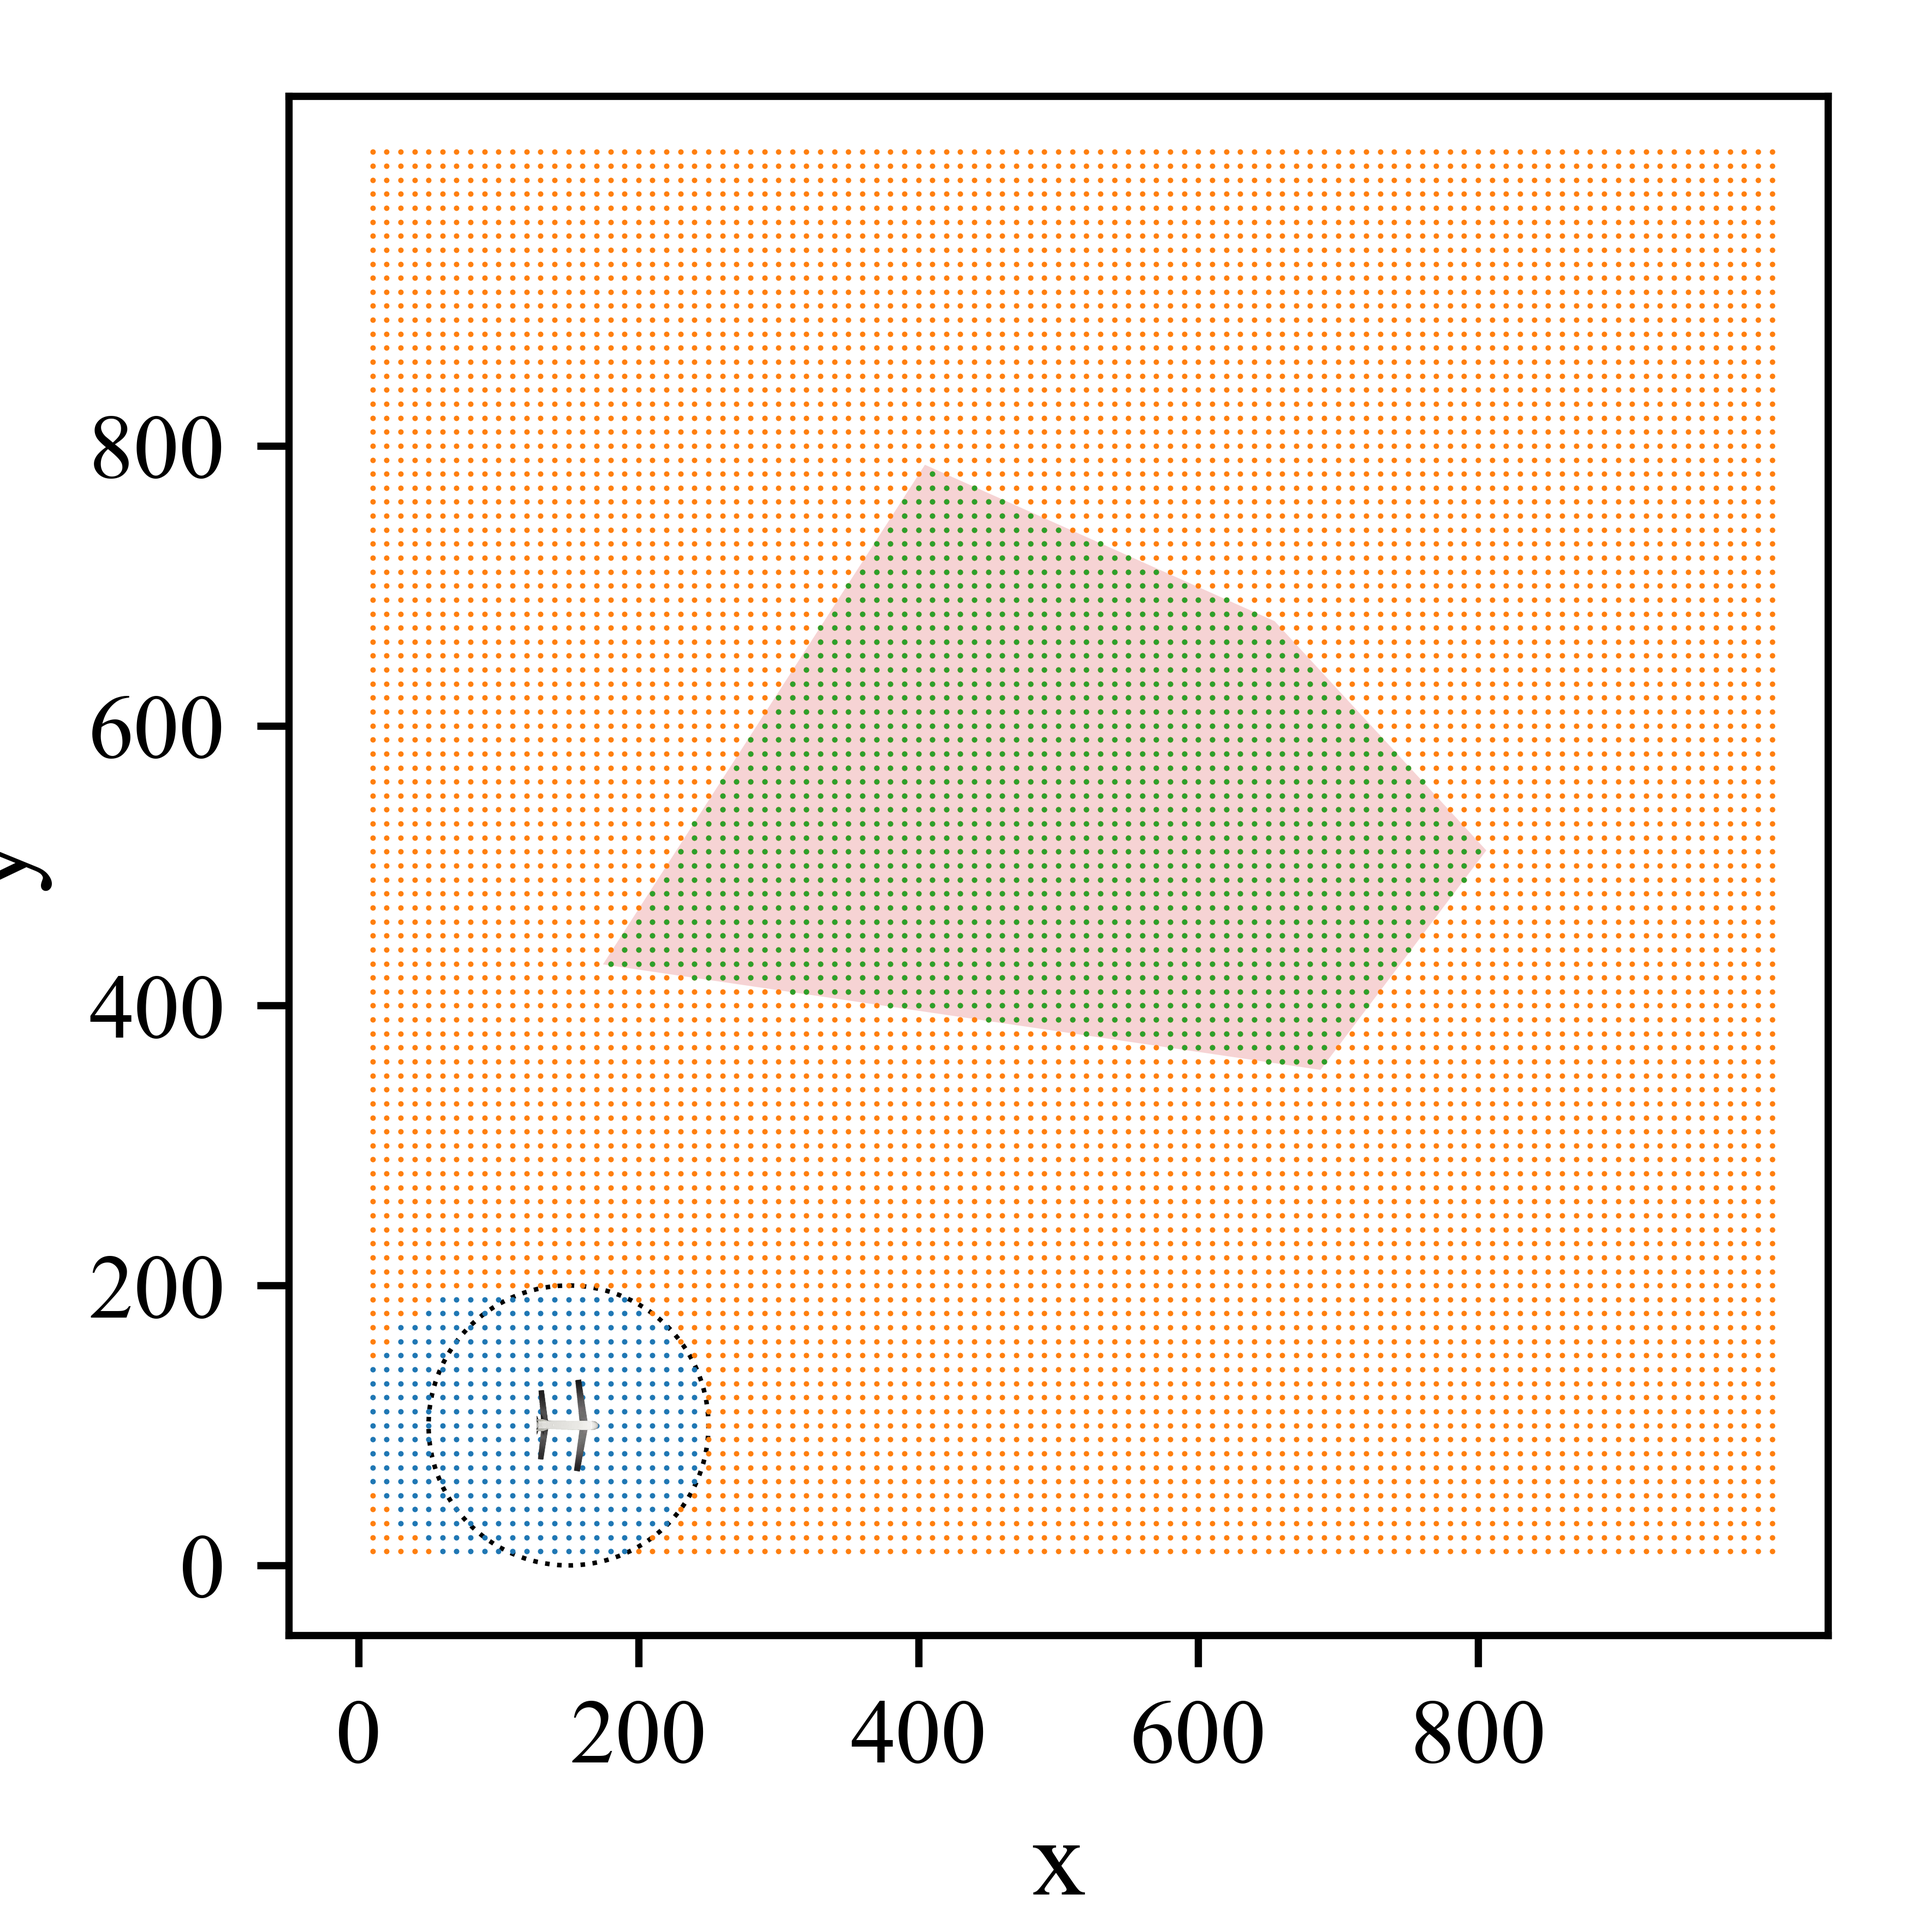
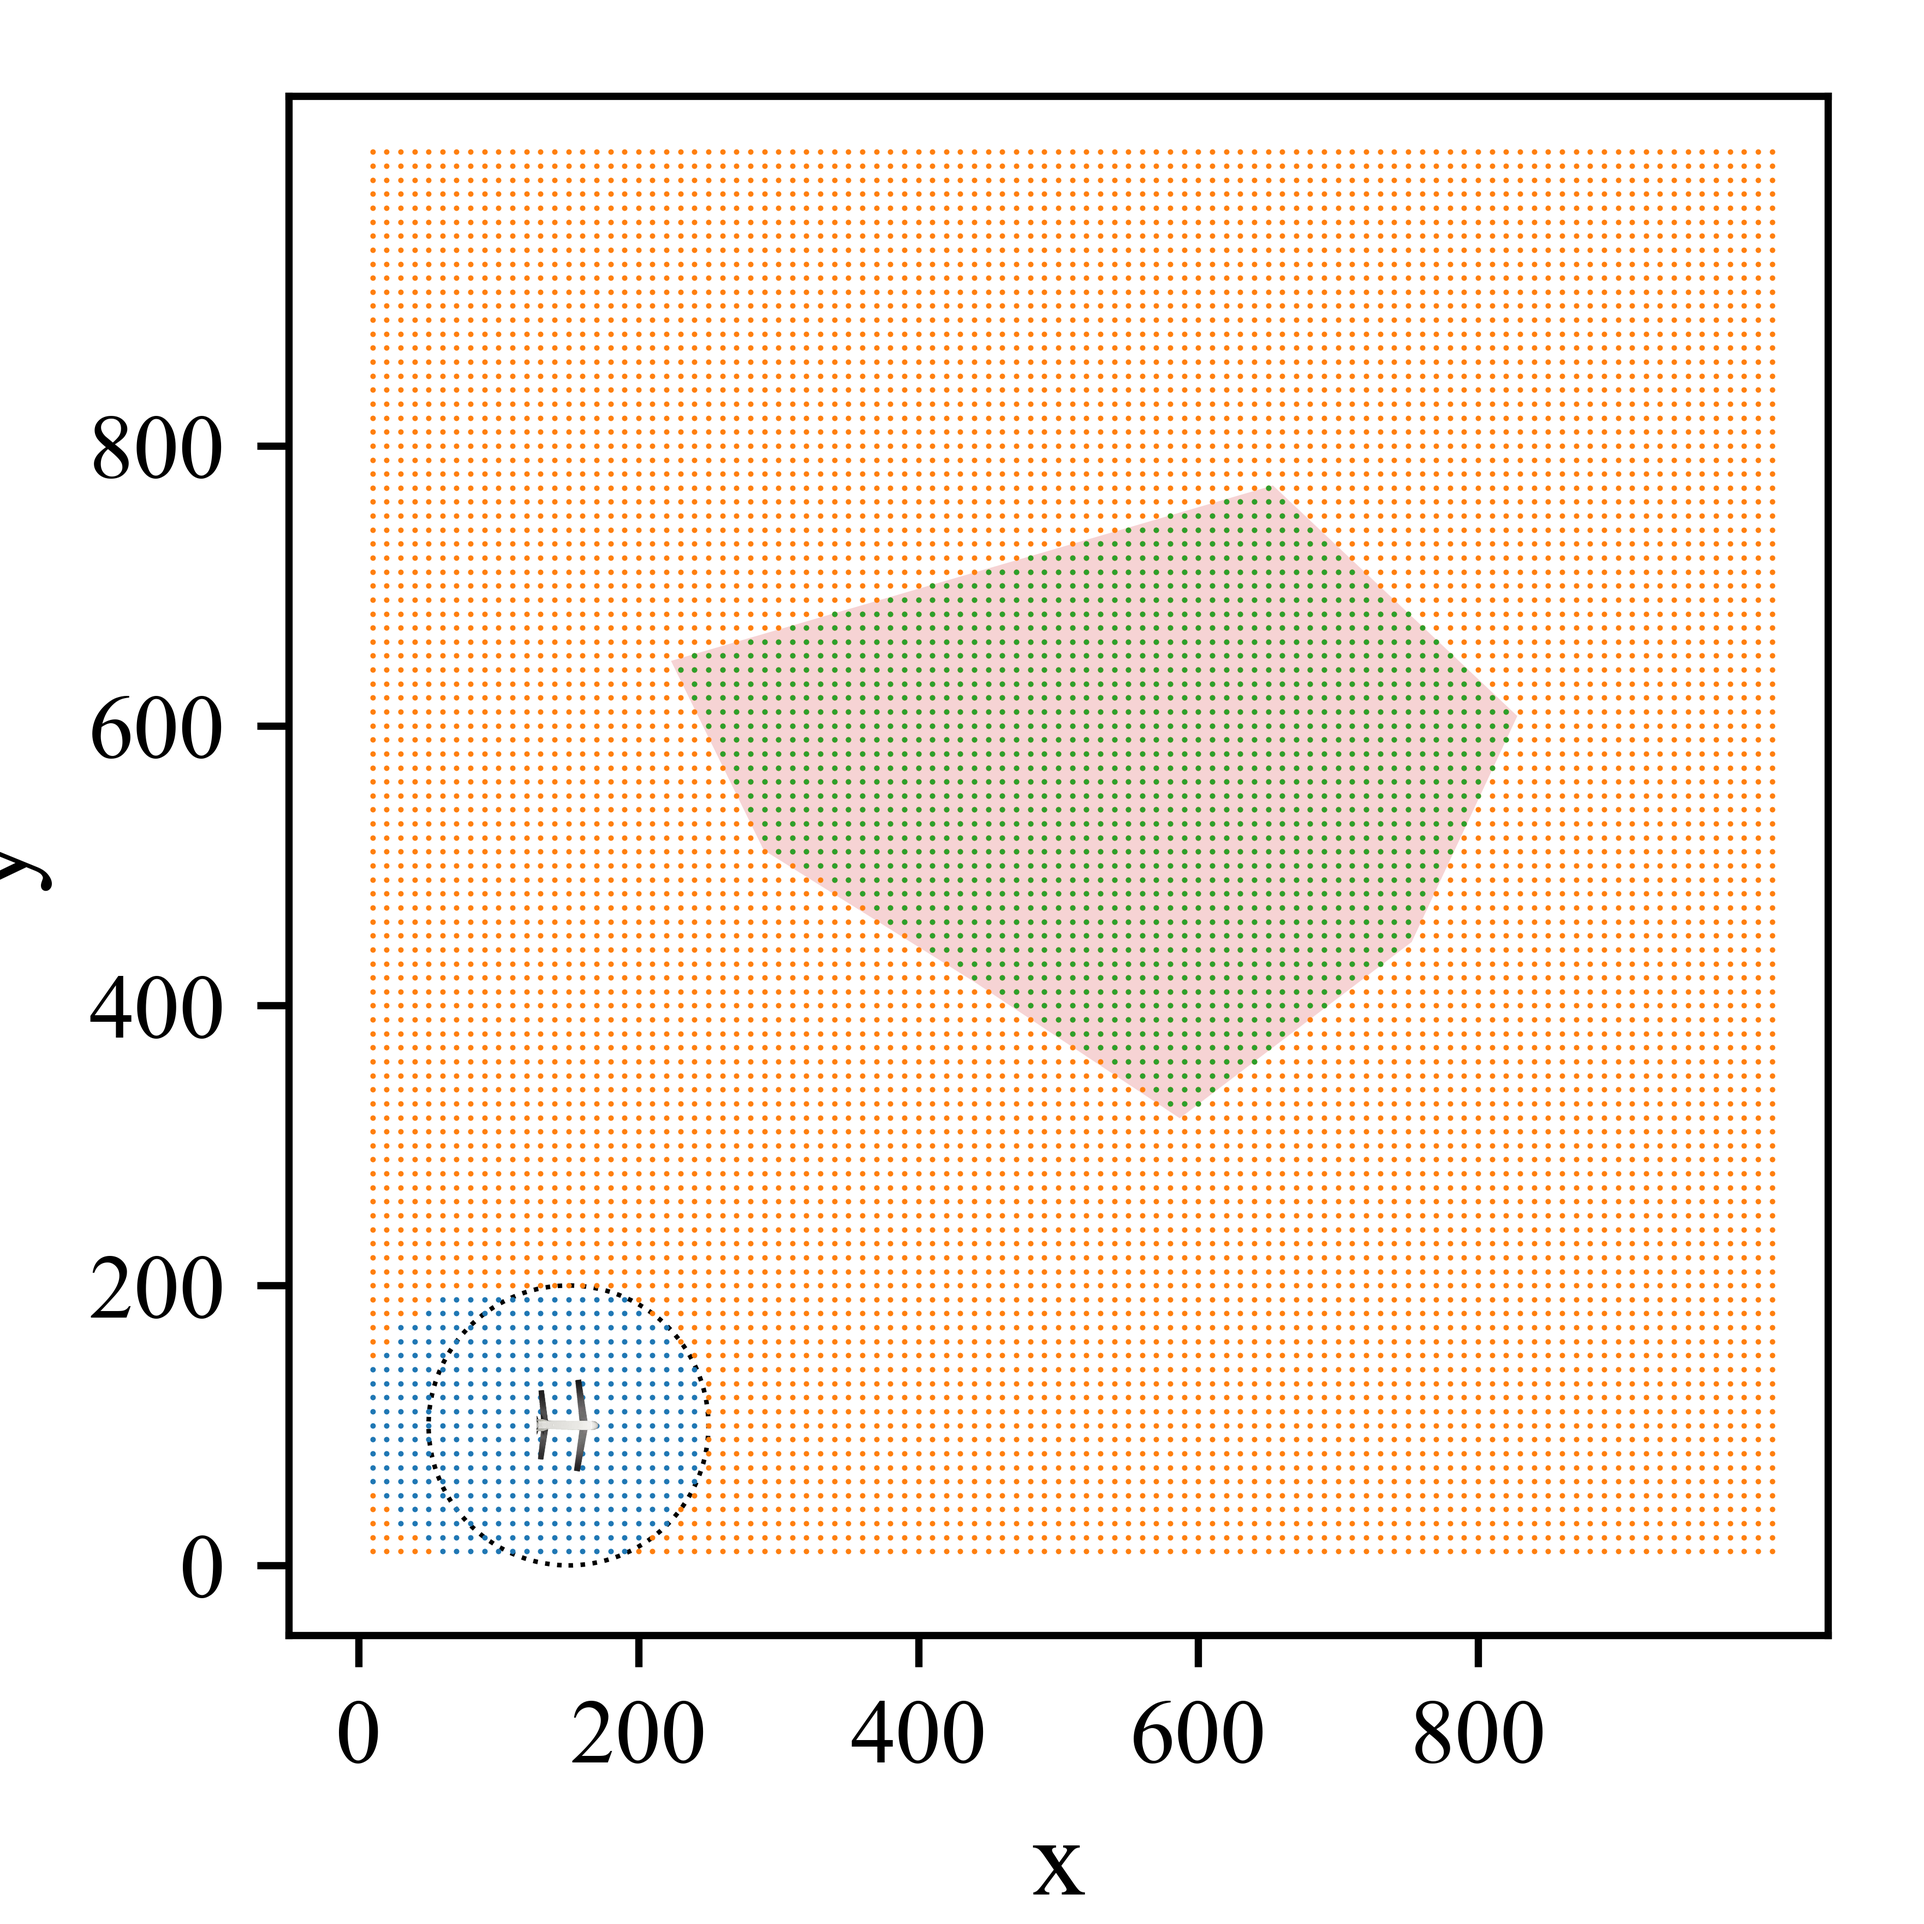
modified:   BattleField/BattleField2.py 	modified:   BattleField/void/shishi.png

diff --git a/BattleField/BattleField2.py b/BattleField/BattleField2.py
@@ -1,11 +1,7 @@
 # this is to define battlefield 
-from concurrent.futures import ThreadPoolExecutor
-import threading
-import time 
 
 import numpy as np
 import copy
-from queue import Queue
 WEIZHI =r'E:/EnglishMulu/UAV-Patrol' 
 import sys 
 sys.path.append(WEIZHI+r'/Support')
@@ -273,7 +269,7 @@ class BattleField(object):
         # self.patrol_area = node_xy
         # huatu = self.visual_patrol_area()
         # huatu.show_figure()
-        # flag_good = self.check_shape2(node_xy)
+        flag_good = self.check_shape2(node_xy)
         if flag_good:
             return node_xy
         else:
@@ -286,8 +282,7 @@ class BattleField(object):
             node_xy = self.generate_patrol_area2(S_target=S_target,L_fanwei_min=L_fanwei_min,L_fanwei_max=L_fanwei_max,**kargs)
         self.patrol_area = node_xy
         huatu = self.visual_patrol_area()
-        huatu.show_figure()
-        flag_good = self.check_shape2(node_xy)            
+        huatu.show_figure()      
         return node_xy
 
     def generate_patrol_first3nodes(self, L_fanwei_min = 300.0,L_fanwei_max = 700.0):
@@ -412,7 +407,10 @@ class BattleField(object):
             vector2 = copy.deepcopy(vector1)
             vector1 = extend_xy[i+1,:] - extend_xy[i,:]          
             chengji1 = vector1.dot(vector2) 
-            yuxian = chengji1/vector2.abs()/vector1.abs()/1.0
+            print(chengji1)
+            print(np.linalg.norm(vector2))
+            print(np.linalg.norm(vector1))
+            yuxian = chengji1/np.linalg.norm(vector2)/np.linalg.norm(vector1)
             cross_zhi = np.cross(vector2,vector1)
             if cross_zhi>=0:
                 jiaodu = np.arccos(yuxian)
